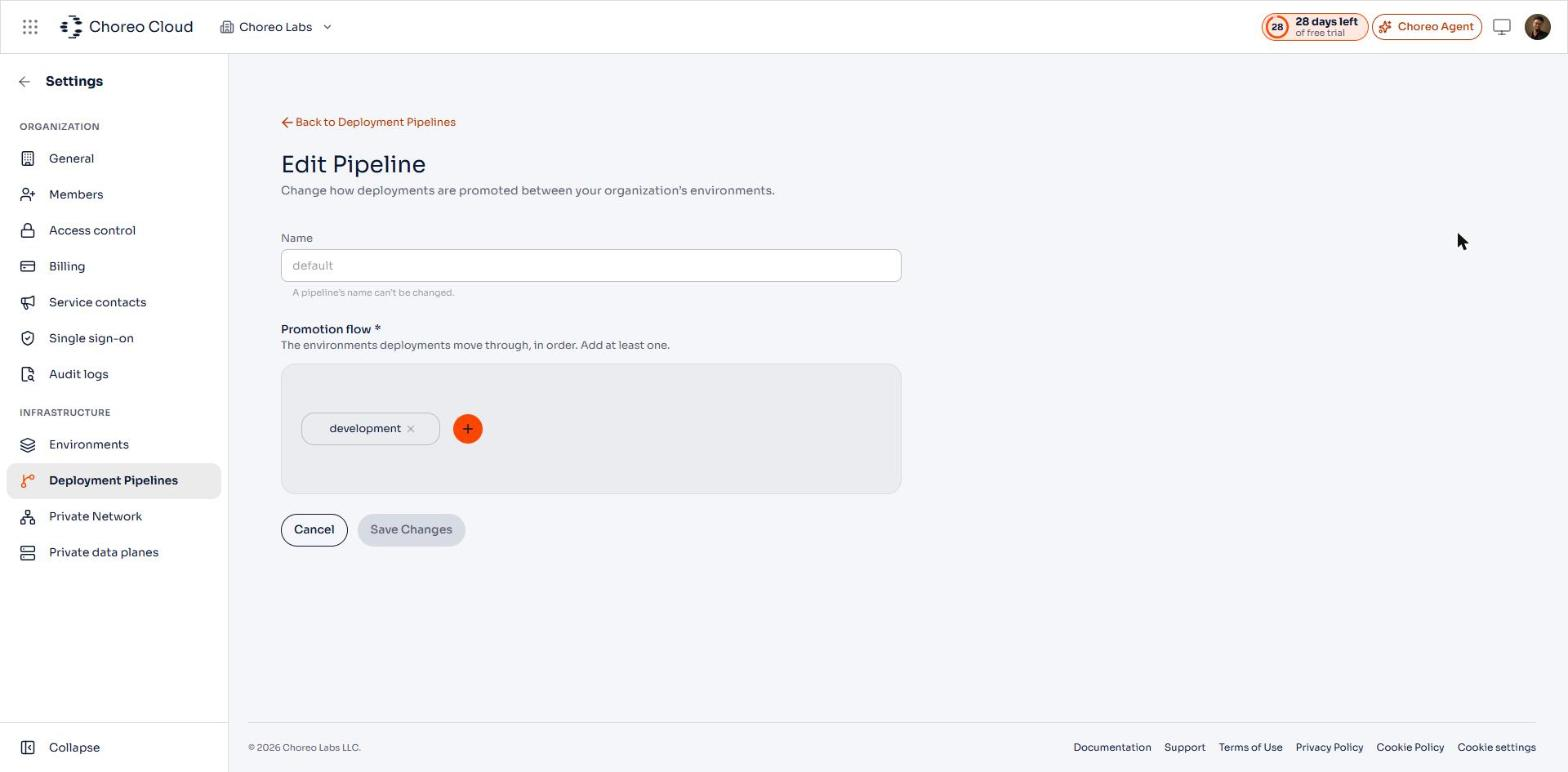
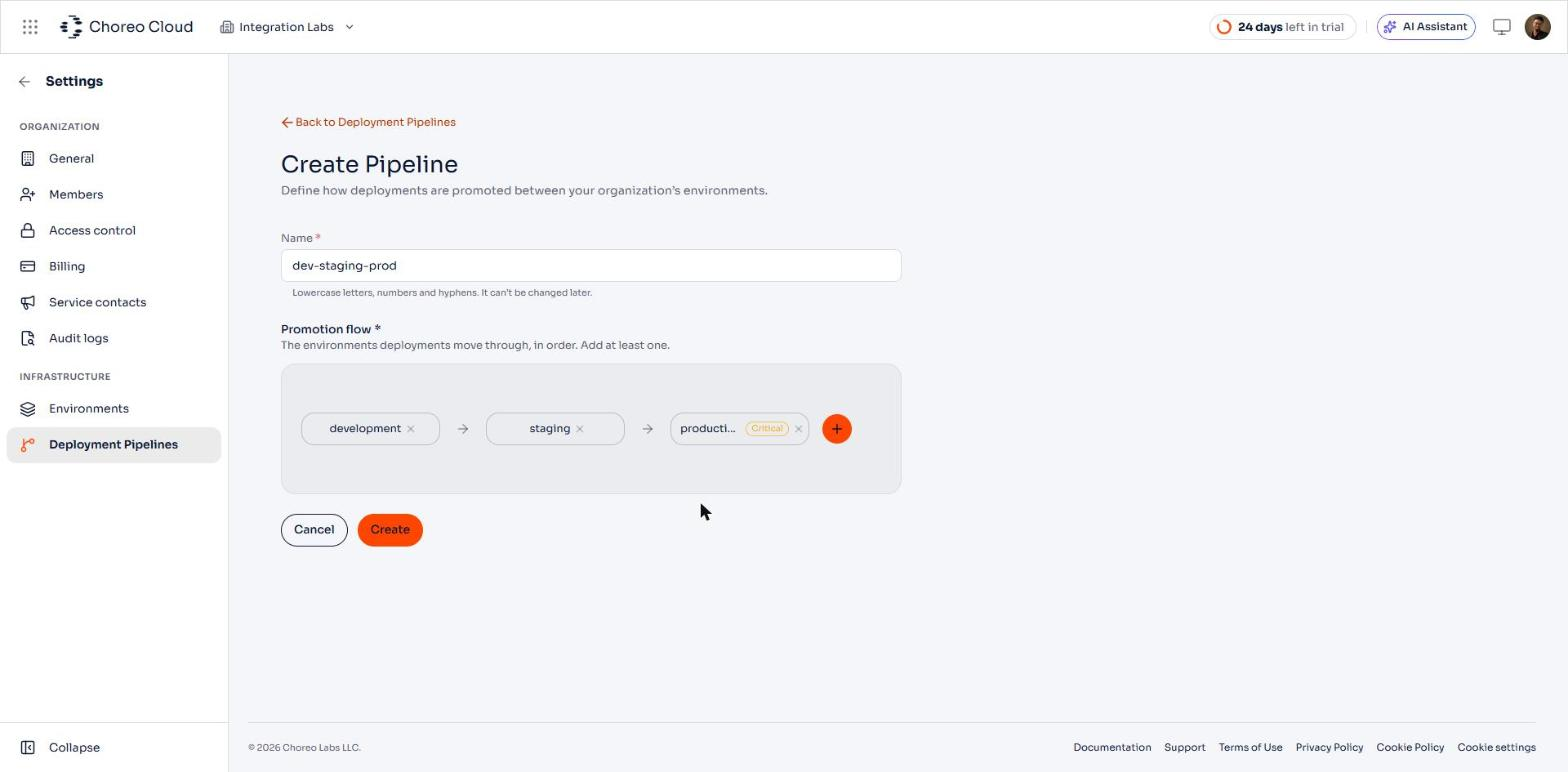
docs(v3): rewrite configure-promotion-pipelines against a real 3-stage pipeline
Created a dev-staging-prod pipeline (development -> staging ->
production) in the Integration Labs org, now standardizing on it for
production-plan content, and assigned it to a project with a real
integration to verify the whole flow:

- Corrected the pipeline Name field description (lowercase/hyphen
  identifier, locked after creation) and re-shot Create Pipeline with
  a real 3-stage flow instead of the single-environment "default".
- Found the "Select a pipeline for an integration" feature does not
  exist in v3 - a project's Deployment pipeline field is single-select,
  not a multi-pipeline assignment, so there's no per-integration
  pipeline switcher. Replaced that section with what's actually there:
  one pipeline per project, shared by every integration, shown via the
  project settings field and the integration's Deploy page (stacked
  environment cards with Promote buttons between them).
- Re-shot the Deployment Pipelines list page with the new org.

diff --git a/en/docs/manage/environments/configure-promotion-pipelines.md b/en/docs/manage/environments/configure-promotion-pipelines.md
@@ -42,11 +42,11 @@ This page lists all existing pipelines in your organization.
 
     | Field | Description |
     |---|---|
-    | **Name** | A display name for the pipeline. |
-    | **Promotion flow** | The ordered sequence of environments deployments move through. Add at least one environment. If you need a new environment, [create one first](./create.md) before configuring the pipeline. |
+    | **Name** | A unique identifier for the pipeline, using lowercase letters, numbers, and hyphens. Cannot be changed after creation. |
+    | **Promotion flow** | The ordered sequence of environments deployments move through. Click **Add Environment** to add the first environment, then use the **+** after it to add the next. Add at least one. If you need a new environment, [create one first](./create.md) before configuring the pipeline. |
 
     <ThemedImage
-        alt="Pipeline editor showing the Name field and the Promotion flow environment list"
+        alt="Create Pipeline form with a three-stage promotion flow: development, staging, production"
         sources={{
             light: useBaseUrl('/img/manage/cloud/environments/pipeline-configuration/configure-pipeline.png'),
             dark: useBaseUrl('/img/manage/cloud/environments/pipeline-configuration/configure-pipeline.png'),
@@ -67,24 +67,29 @@ On the **Deployment Pipelines** page, click the delete icon on the pipeline you 
 
 ## Assign a pipeline to a project
 
-Once you create a pipeline, you can assign it to one or more projects. Multiple pipelines can be active in the same project at the same time.
+Each project uses exactly one pipeline at a time, shared by every integration in that project.
 
 1. In the top navigation menu, click the **Project** list and select the project you want to configure.
 2. From the project home, click **Settings**.
 3. Select the pipeline from the **Deployment pipeline** list, then click **Save changes**.
 
-## Select a pipeline for an integration
+<ThemedImage
+    alt="Project settings page with the Deployment pipeline field set to a three-stage pipeline"
+    sources={{
+        light: useBaseUrl('/img/manage/cloud/environments/pipeline-configuration/assign-pipeline.png'),
+        dark: useBaseUrl('/img/manage/cloud/environments/pipeline-configuration/assign-pipeline.png'),
+    }}
+/>
 
-When multiple pipelines are assigned to a project, you can choose which pipeline to use for a specific integration.
+Every integration in the project now deploys through this pipeline's environments, in order.
 
-1. Open the integration and go to its **Deploy** page.
-2. Switch the active pipeline using the pipeline selector on the **Deploy** page.
-
-{/* TODO(v3): removed the stale v2 screenshot here (deploy-page-integration.png).
-    The pipeline selector only appears when a project has more than one pipeline
-    assigned, which needs a second environment. The trial org used for these docs
-    can't create one (Growth/Enterprise plan required). Re-shoot once a second
-    environment and pipeline are available. */}
+<ThemedImage
+    alt="Deploy page for an integration showing Development, Staging, and Production environment cards with Promote buttons between them"
+    sources={{
+        light: useBaseUrl('/img/manage/cloud/environments/pipeline-configuration/deploy-page-pipeline.png'),
+        dark: useBaseUrl('/img/manage/cloud/environments/pipeline-configuration/deploy-page-pipeline.png'),
+    }}
+/>
 
 ## What's next
 
